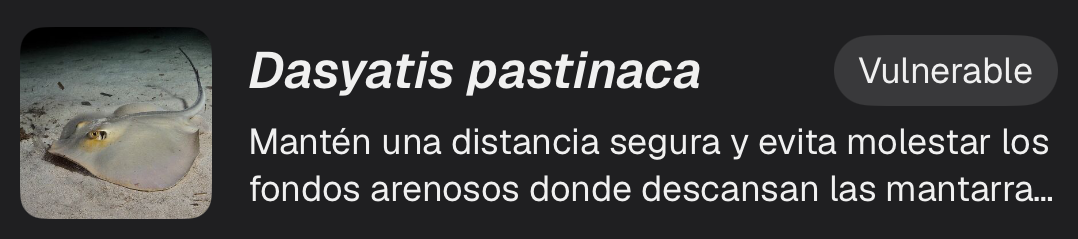
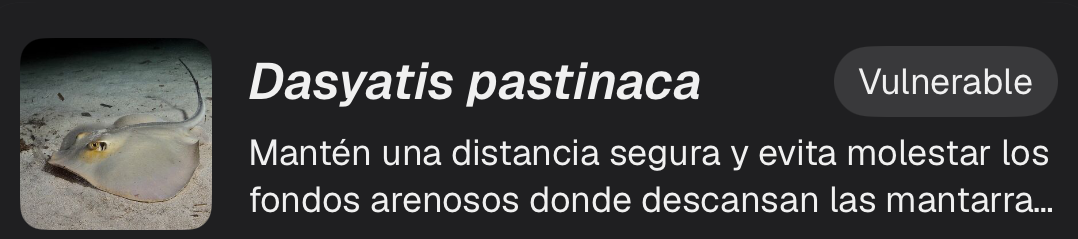
feat(home): English app screens for the English page
img[data-src-en] swaps to the English screenshot for en and fr; es and
ca keep the Spanish one (also the no-JS default). Antes screen re-shot so
the species section sits under the nav.

Changed region(s): [[0.0, 0.0879, 0.9796, 0.9665], [0.7653, 0.1464, 0.9796, 0.4979]]

diff --git a/landing/index.html b/landing/index.html
@@ -206,7 +206,7 @@
           <p class="moment-desc" data-i18n="mom1d">Antes de entrar al agua, conoce el sitio: el estado del mar, si es zona protegida y qué especies viven allí, también las que necesitan más cuidado. Compártelo con tu grupo en el plan.</p>
           <a class="moment-link" href="/app/#sitios" data-i18n="mom1l">Explorar sitios</a>
         </div>
-        <div class="moment-phone"><img loading="lazy" src="/screen-site-guidelines.png" width="1206" height="2622" alt="Sitio de buceo en Divera con las especies protegidas del lugar y cómo cuidarlas"></div>
+        <div class="moment-phone"><img loading="lazy" src="/screen-site-guidelines.png" data-src-en="/screen-site-guidelines-en.png" width="1206" height="2622" alt="Sitio de buceo en Divera con las especies protegidas del lugar y cómo cuidarlas"></div>
       </li>
       <li class="moment" data-moment="1">
         <div class="moment-text">
@@ -224,7 +224,7 @@
           <p class="moment-desc" data-i18n="mom3d">Importa los datos de tu ordenador de buceo, añade fotos y especies, y comparte tus avistamientos con proyectos científicos reales de tu zona, que los revisan y los usan. No con un mapa más.</p>
           <a class="moment-link" href="/ciencia/" data-i18n="mom3l">Ver los proyectos</a>
         </div>
-        <div class="moment-phone"><img loading="lazy" src="/screen-science-share.png" width="1206" height="2622" alt="Avistamiento en Divera listo para compartir con un proyecto científico"></div>
+        <div class="moment-phone"><img loading="lazy" src="/screen-science-share.png" data-src-en="/screen-science-share-en.png" width="1206" height="2622" alt="Avistamiento en Divera listo para compartir con un proyecto científico"></div>
       </li>
       <li class="moment" data-moment="3">
         <div class="moment-text">
@@ -233,21 +233,21 @@
           <p class="moment-desc" data-i18n="mom4d">Planes de grupo, compañeros y centros de buceo, con tu certificación y seguro a mano.</p>
           <a class="moment-link" href="/app/#planificar" data-i18n="mom4l">Ver los planes de grupo</a>
         </div>
-        <div class="moment-phone"><img loading="lazy" src="/screen-plan-briefing.png" width="1206" height="2622" alt="Inmersión en grupo en Divera con fecha, briefing y sitio"></div>
+        <div class="moment-phone"><img loading="lazy" src="/screen-plan-briefing.png" data-src-en="/screen-plan-briefing-en.png" width="1206" height="2622" alt="Inmersión en grupo en Divera con fecha, briefing y sitio"></div>
       </li>
     </ol>
     <div class="moments-stage">
       <div class="moments-sticky">
         <div class="stage-device">
           <div class="stage-phone">
-            <img class="stage-screen" data-moment="0" loading="lazy" src="/screen-site-guidelines.png" alt="Sitio de buceo en Divera con las especies protegidas del lugar y cómo cuidarlas">
+            <img class="stage-screen" data-moment="0" loading="lazy" src="/screen-site-guidelines.png" data-src-en="/screen-site-guidelines-en.png" alt="Sitio de buceo en Divera con las especies protegidas del lugar y cómo cuidarlas">
             <video class="stage-screen moment-video" data-moment="1" src="/camera-detection.mp4" poster="/camera-detection-poster.jpg" loop muted playsinline preload="none" disablepictureinpicture aria-label="Cámara de Divera bajo el agua reconociendo peces en tiempo real"></video>
-            <img class="stage-screen" data-moment="2" loading="lazy" src="/screen-science-share.png" alt="Avistamiento en Divera listo para compartir con un proyecto científico">
-            <img class="stage-screen" data-moment="3" loading="lazy" src="/screen-plan-briefing.png" alt="Inmersión en grupo en Divera con fecha, briefing y sitio">
+            <img class="stage-screen" data-moment="2" loading="lazy" src="/screen-science-share.png" data-src-en="/screen-science-share-en.png" alt="Avistamiento en Divera listo para compartir con un proyecto científico">
+            <img class="stage-screen" data-moment="3" loading="lazy" src="/screen-plan-briefing.png" data-src-en="/screen-plan-briefing-en.png" alt="Inmersión en grupo en Divera con fecha, briefing y sitio">
           </div>
-          <img class="stage-proof proof-site" data-moment="0" loading="lazy" src="/proof-site-guidelines.png" width="1078" height="239" alt="" aria-hidden="true">
-          <img class="stage-proof proof-dive" data-moment="2" loading="lazy" src="/proof-science-share.png" width="1113" height="370" alt="" aria-hidden="true">
-          <img class="stage-proof proof-plan" data-moment="3" loading="lazy" src="/proof-plan-briefing.png" width="1166" height="393" alt="" aria-hidden="true">
+          <img class="stage-proof proof-site" data-moment="0" loading="lazy" src="/proof-site-guidelines.png" data-src-en="/proof-site-guidelines-en.png" width="1078" height="239" alt="" aria-hidden="true">
+          <img class="stage-proof proof-dive" data-moment="2" loading="lazy" src="/proof-science-share.png" data-src-en="/proof-science-share-en.png" width="1113" height="370" alt="" aria-hidden="true">
+          <img class="stage-proof proof-plan" data-moment="3" loading="lazy" src="/proof-plan-briefing.png" data-src-en="/proof-plan-briefing-en.png" width="1166" height="393" alt="" aria-hidden="true">
         </div>
       </div>
     </div>

diff --git a/landing/site.css b/landing/site.css
@@ -643,7 +643,8 @@ footer { padding: 32px 48px; border-top: 0.5px solid rgba(255,255,255,0.04); dis
   .stage-screen { position: absolute; inset: 0; width: 100%; height: 100%; object-fit: cover; object-position: top; opacity: 0; transition: opacity 0.3s ease; }
   .stage-proof { position: absolute; height: auto; border-radius: 10px; opacity: 0; transform: none; transition: opacity 0.3s ease 0.15s, transform 0.5s var(--ease-out) 0.15s, box-shadow 0.5s var(--ease-out) 0.15s; pointer-events: none; }
   /* Proof crops sit on the exact pixels of their screen (1206x2622 frame). */
-  .proof-site { left: 5.31%; top: 52.21%; width: 89.39%; }
+  .proof-site { left: 5.31%; top: 31.43%; width: 89.39%; }
+  html[lang="en"] .proof-site, html[lang="fr"] .proof-site { top: 32.99%; }
   .proof-dive { left: 3.90%; top: 48.32%; width: 92.29%; border-radius: 18px; }
   .proof-plan { left: 1.66%; top: 33.33%; width: 96.68%; }
   .moments[data-active="0"] [data-moment="0"], .moments[data-active="1"] [data-moment="1"],
@@ -663,7 +664,7 @@ footer { padding: 32px 48px; border-top: 0.5px solid rgba(255,255,255,0.04); dis
   .moment { padding-top: 64px; }
   .moment-phone { width: 100%; max-width: 520px; aspect-ratio: 4 / 3; margin-top: 32px; border-radius: 22px; border: none; box-shadow: none; }
   .moment-phone img, .moment-phone video { width: 100%; height: 100%; object-fit: cover; object-position: 50% var(--focus, 50%); }
-  .moment[data-moment="0"] .moment-phone { --focus: 48%; }
+  .moment[data-moment="0"] .moment-phone { --focus: 36%; }
   .moment[data-moment="1"] .moment-phone { --focus: 50%; }
   .moment[data-moment="2"] .moment-phone { --focus: 52%; }
   .moment[data-moment="3"] .moment-phone { --focus: 36%; }

diff --git a/landing/site.js b/landing/site.js
@@ -73,6 +73,12 @@
       const k = el.getAttribute('data-i18n-aria');
       if (tx[k] !== undefined) el.setAttribute('aria-label', tx[k]);
     });
+    // App screenshots: src is the Spanish image; data-src-en holds the English one (used for en and fr).
+    document.querySelectorAll('img[data-src-en]').forEach(el => {
+      if (!el.dataset.srcEs) el.dataset.srcEs = el.getAttribute('src');
+      const want = (lang === 'en' || lang === 'fr') ? el.dataset.srcEn : el.dataset.srcEs;
+      if (el.getAttribute('src') !== want) el.setAttribute('src', want);
+    });
     document.documentElement.lang = lang;
     document.getElementById('langCurrent').textContent = LANG_LABELS[lang];
     document.querySelectorAll('.lang-option').forEach(opt => {
